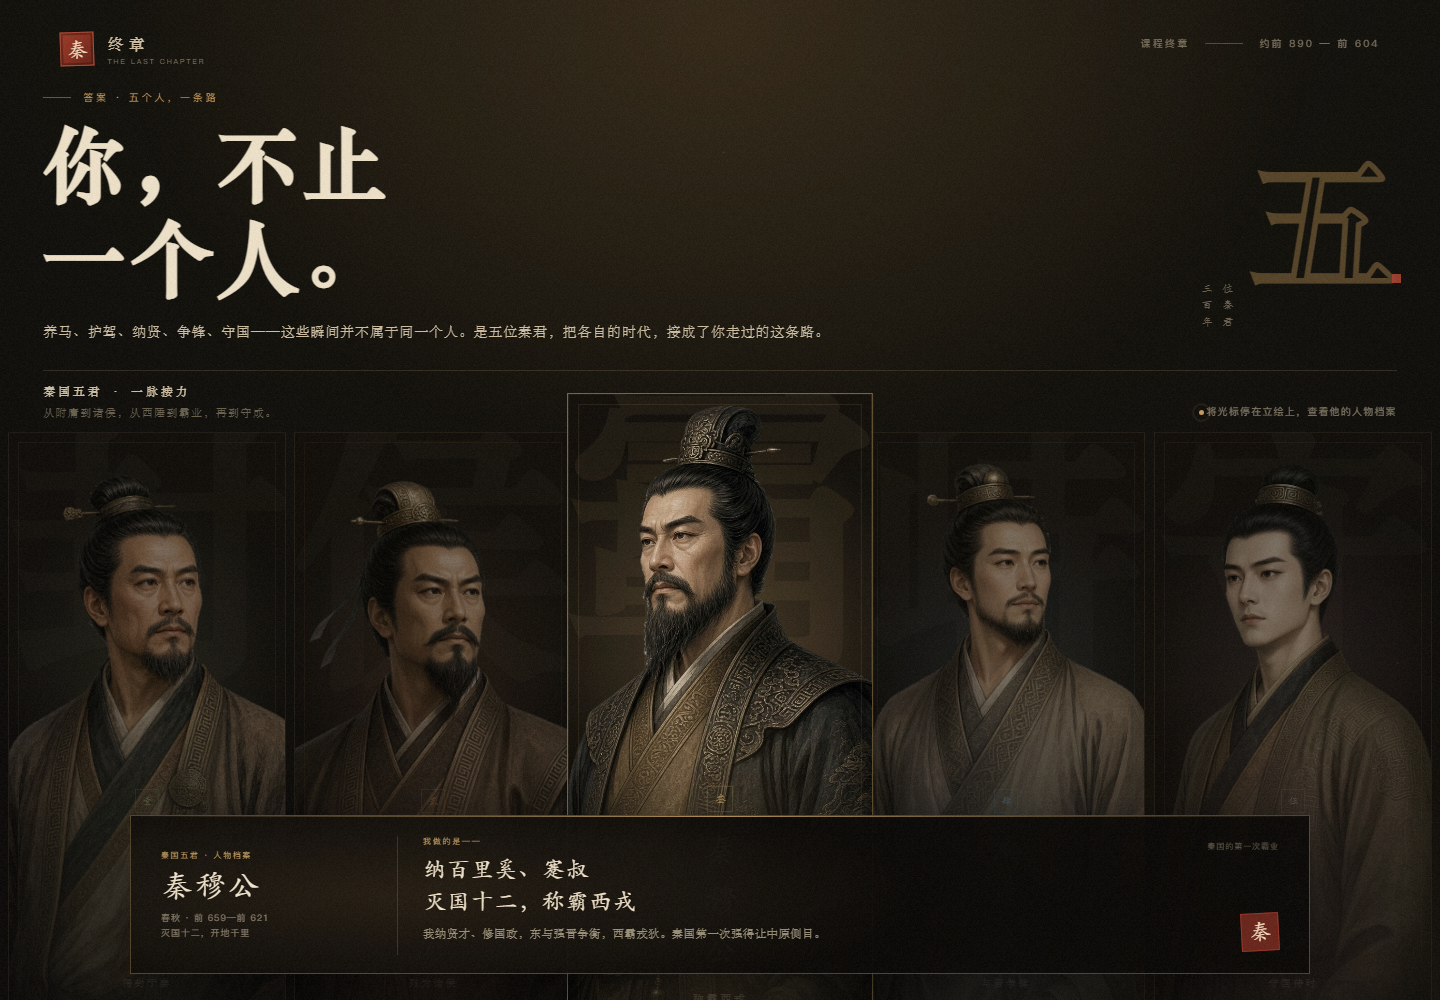
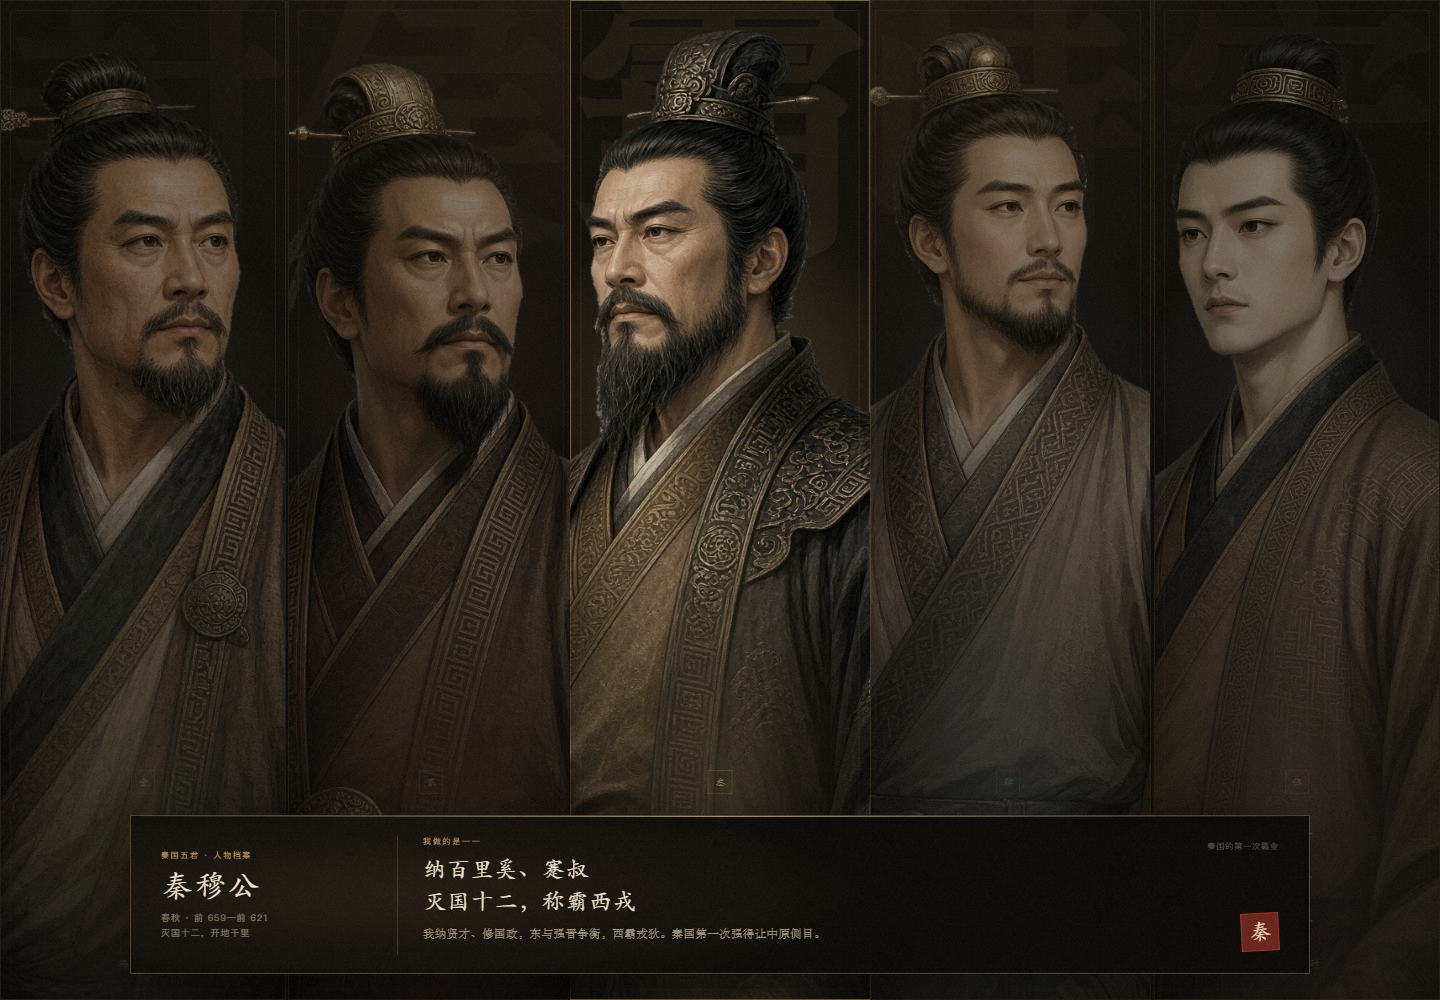
feat: reduce ending to five fullscreen rulers

diff --git a/index.html b/index.html
@@ -59,70 +59,14 @@
   </section>
 
   <main class="reveal" id="reveal" aria-labelledby="thesis-title" aria-hidden="true">
-    <section class="thesis">
-      <div class="thesis-copy">
-        <p class="eyebrow"><span class="eyebrow-line" aria-hidden="true"></span>答案 · 五个人，一条路</p>
-        <h1 class="thesis-title" id="thesis-title" tabindex="-1">
-          <span class="title-line"><span>你，不止</span></span>
-          <span class="title-line"><span>一个人。</span></span>
-        </h1>
-        <p class="lede">养马、护驾、纳贤、争锋、守国——这些瞬间并不属于同一个人。是五位秦君，把各自的时代，接成了你走过的这条路。</p>
-      </div>
-      <div class="thesis-mark" aria-hidden="true">
-        <span class="mark-number">五</span>
-        <span class="mark-caption">位秦君<br />三百年</span>
-      </div>
-    </section>
+    <h1 class="sr-only" id="thesis-title" tabindex="-1">你，不止一个人</h1>
 
-    <section class="gallery-section" aria-labelledby="gallery-title">
-      <div class="gallery-head">
-        <div>
-          <p class="section-label" id="gallery-title">秦国五君 · 一脉接力</p>
-          <p class="gallery-sub">从附庸到诸侯，从西陲到霸业，再到守成。</p>
-        </div>
-        <p class="gallery-hint">
-          <span class="hint-desktop"><span class="cursor-pulse" aria-hidden="true"></span>将光标停在立绘上，查看他的人物档案</span>
-          <span class="hint-touch"><span class="cursor-pulse" aria-hidden="true"></span>轻触立绘，查看他的功绩 · 可左右滑动</span>
-        </p>
-      </div>
-
+    <section class="gallery-section" aria-label="秦国五位君主">
       <div class="rail-wrap">
         <div class="rail" id="rail" role="group" aria-label="秦国五位君主立绘"></div>
         <div class="rail-edge rail-edge--left" aria-hidden="true"></div>
         <div class="rail-edge rail-edge--right" aria-hidden="true"></div>
       </div>
-
-      <div class="gallery-foot">
-        <p class="gallery-caption">不是五个人各自的故事，<br>是一个名字的五次呼吸。</p>
-        <div class="progress" aria-hidden="true">
-          <span class="progress-label" id="progress-label">已看 0 / 5 段自述</span>
-          <span class="ticks" id="ticks">
-            <span></span><span></span><span></span><span></span><span></span>
-          </span>
-        </div>
-      </div>
-    </section>
-
-    <section class="coda" id="coda" aria-labelledby="coda-title">
-      <div class="coda-rule" aria-hidden="true">
-        <span></span><i></i><span></span>
-      </div>
-      <p class="coda-kicker">五段自述 · 一条来路</p>
-      <h2 class="coda-title" id="coda-title">
-        你不是他们中的任何一个。<br />
-        你是他们合起来，才叫得出口的那个字——<span class="coda-qin">秦</span>。
-      </h2>
-      <p class="coda-body">非子给了它土地，襄公给了它名分，穆公给了它锋芒，康公与共公守住了它的火种。三百年，五次接力，才轮到你在这里，问出那一句“我是谁”。</p>
-
-      <div class="coda-foot">
-        <span class="seal" aria-hidden="true">秦</span>
-        <span class="coda-end">课程终章 · 完</span>
-      </div>
-
-      <details class="history-note">
-        <summary>史实注</summary>
-        <p>五人并非连续父子相继，而是秦国从附庸、诸侯、霸业到守成的五个关键节点。其中“秦共公”常被误写作“秦共工”，在位约为公元前 608—前 604 年，史料记载较少。</p>
-      </details>
     </section>
   </main>
 

diff --git a/app.js b/app.js
@@ -96,13 +96,12 @@
 
   const rail = document.getElementById("rail");
   const liveRegion = document.getElementById("live-region");
-  const ticks = [...document.querySelectorAll("#ticks span")];
-  const progressLabel = document.getElementById("progress-label");
+
   const body = document.body;
   const main = document.getElementById("reveal");
   const enterButton = document.getElementById("enter-button");
   const prologue = document.getElementById("prologue");
-  const coda = document.getElementById("coda");
+
   const hoverDetail = document.getElementById("hover-detail");
   const hoverName = document.getElementById("hover-detail-name");
   const hoverEra = document.getElementById("hover-detail-era");
@@ -209,24 +208,16 @@
      ------------------------------------------------------- */
 
   function updateProgress() {
-    const count = visited.size;
-    ticks.forEach((tick, index) => {
-      tick.classList.toggle("is-read", index < count);
-    });
+    if (visited.size < RULERS.length) return;
 
-    if (count >= RULERS.length) {
-      const wasComplete = body.classList.contains("all-visited");
-      progressLabel.textContent = "五段到齐 · 一脉相承";
-      body.classList.add("all-visited");
-      if (!wasComplete) {
-        window.dispatchEvent(
-          new CustomEvent("qin:ending:complete", {
-            detail: { visited: [...visited] }
-          })
-        );
-      }
-    } else {
-      progressLabel.textContent = `已看 ${count} / ${RULERS.length} 段自述`;
+    const wasComplete = body.classList.contains("all-visited");
+    body.classList.add("all-visited");
+    if (!wasComplete) {
+      window.dispatchEvent(
+        new CustomEvent("qin:ending:complete", {
+          detail: { visited: [...visited] }
+        })
+      );
     }
   }
 
@@ -380,8 +371,6 @@
     hoverDetail.classList.remove("is-visible");
     hoverDetail.setAttribute("aria-hidden", "true");
     if (hideDetailTimer) window.clearTimeout(hideDetailTimer);
-    ticks.forEach((tick) => tick.classList.remove("is-read"));
-    progressLabel.textContent = "已看 0 / 5 段自述";
     typingToken += 1;
     if (typingTimer) window.clearTimeout(typingTimer);
     document.querySelectorAll(".typed-caret").forEach((caret) => caret.remove());
@@ -444,26 +433,6 @@
       fragment.appendChild(mote);
     }
     holder.appendChild(fragment);
-  }
-
-  const codaObserver = "IntersectionObserver" in window
-    ? new IntersectionObserver(
-        (entries) => {
-          entries.forEach((entry) => {
-            if (entry.isIntersecting) {
-              entry.target.classList.add("in-view");
-              codaObserver.unobserve(entry.target);
-            }
-          });
-        },
-        { threshold: 0.18 }
-      )
-    : null;
-
-  if (codaObserver) {
-    codaObserver.observe(coda);
-  } else {
-    coda.classList.add("in-view");
   }
 
   makeDust();

diff --git a/styles.css b/styles.css
@@ -1925,6 +1925,81 @@ body.all-visited .coda.in-view .seal {
     display: none;
   }
 }
+/* Full-screen five-portrait ending */
+body.is-revealed {
+  overflow: hidden;
+}
+
+body.is-revealed .masthead {
+  display: none;
+}
+
+.reveal {
+  width: 100%;
+  max-width: none;
+  height: 100dvh;
+  margin: 0;
+  padding: 0;
+}
+
+.reveal .gallery-section {
+  display: flex;
+  height: 100%;
+  padding: 0;
+  border: 0;
+}
+
+.reveal .rail-wrap {
+  width: 100%;
+  height: 100%;
+  margin: 0;
+  padding: 0;
+}
+
+.reveal .rail {
+  height: 100dvh;
+  padding: 0;
+  gap: 2px;
+  justify-content: stretch;
+}
+
+.reveal .ruler {
+  height: 100%;
+}
+
+.reveal .figure {
+  height: 100%;
+  bottom: 0;
+}
+
+.reveal .ruler:hover {
+  transform: scaleX(1.05);
+}
+
+.reveal .ruler:focus-visible {
+  transform: scaleX(1.04);
+}
+
+.reveal .ruler:hover .figure {
+  transform: translateX(-50%);
+}
+
+.reveal .spine {
+  padding-bottom: 28px;
+}
+
+@media (max-height: 700px) {
+  .hover-detail {
+    bottom: 10px;
+    padding-top: 12px;
+    padding-bottom: 12px;
+  }
+
+  .hover-detail-body {
+    min-height: 0;
+  }
+}
+
 @media (prefers-reduced-motion: reduce) {
   html {
     scroll-behavior: auto;

diff --git a/README.md b/README.md
@@ -16,7 +16,7 @@
 | 四 | 秦康公 | 继穆公之业，与晋争锋 | `portrait-kang.webp` |
 | 五 | 秦共公 | 在位四年，守国待时 | `portrait-gong.webp` |
 
-第五位统一写作 **秦共公**，不写作“秦共工”。五人并非连续父子相继，页面以“五个关键节点 / 三百年五次接力”表述，页脚保留史实注。
+第五位统一写作 **秦共公**，不写作“秦共工”。五人并非连续父子相继，相关史实说明保留在本 README，页面本身已删除史实注。
 
 人物图按 `half-body-historical-portrait-1~5.jpg` 的顺序对应上表；如需调整人物与图片的对应关系，只需修改 `app.js` 中对应条目的 `image` 字段。
 
@@ -30,14 +30,13 @@
 - 桌面：将光标停在立绘上，卡片原位放大，底部升起人物档案带；移开 90ms 后收起。
 - 键盘：`Tab` 聚焦，`←` `→` 移动焦点，焦点卡自动显示档案；`Esc` 收起。
 - 触屏：轻触立绘显示档案，点其他卡切换，点空白收起。
-- 看完全部五段自述后，底部进度变成“五段到齐”，印章落下。
+- 页面只有五张人物卡，占满视口；没有标题、进度、收束页或史实注。
 
 预览图：
 
-- `preview/gallery.png`：五卡并排的初始状态
+- `preview/gallery.png`：五张人物占满全屏
 - `preview/desktop.png`：桌面端悬停秦穆公
 - `preview/mobile.png`：移动端轻触后的档案
-- `preview/coda.png`：五段看完后的收束页
 
 ---
 
@@ -46,12 +45,12 @@
 | 需求 | 实现 |
 | --- | --- |
 | 接在“我到底是谁呢”之后 | 独立页内置同一句内心 OS 作为序幕；支持由课程播放器调用 `QinEnding.reveal()` 精确接管时机 |
-| 揭示“不止一个人” | 标题写“你，不止一个人”；下方文案明确“这些瞬间不属于同一个人，是五位秦君” |
-| 五位君主立绘依次排开 | 秦非子 → 秦襄公 → 秦穆公 → 秦康公 → 秦共公，横向五栏，桌面等宽、移动横滑 |
-| 悬停谁，谁原位放大 | 五张卡宽度固定；悬停卡只做 `translateY + scale`，不改变相邻卡布局 |
+| 揭示“不止一个人” | 画面只保留五张全屏人物；标题退为屏幕阅读器文本，反转靠人物同屏与档案带完成 |
+| 五位君主立绘依次排开 | 秦非子 → 秦襄公 → 秦穆公 → 秦康公 → 秦共公，横向五栏铺满视口，移动端横滑 |
+| 悬停谁，谁原位放大 | 五张卡宽度固定；悬停卡只做 `scaleX(1.05)`，不改变相邻卡布局 |
 | 播放自己的功绩文字 | 底部人物档案带显示“我做的是——”，正文用逐字打字机播放；换人时重新播放 |
 | 文字内容可省略 | 每条只保留两行功绩短语 + 一句约 40 字自述，不堆史料 |
-| 课程结尾的收束感 | 五段看完后进度条走满、印章落下，收束句“你是他们合起来，才叫得出口的那个字——秦” |
+| 课程结尾的收束感 | 极简收尾：不显示进度、收束页、史实注，画面只留五个人 |
 
 ---
 
@@ -59,7 +58,7 @@
 
 ### 1. “秦共工”是笔误，应为“秦共公”
 
-页面采用 **秦共公**（约前 608—前 604 年在位），并在页脚“史实注”中说明这一点。若课程原有文案写的是“秦共工”，建议同步改为“秦共公”；“共工”在中文语境里首先指向神话人物，容易让学生出戏。
+页面采用 **秦共公**（约前 608—前 604 年在位），相关史实说明保留在本 README。若课程原有文案写的是“秦共工”，建议同步改为“秦共公”；“共工”在中文语境里首先指向神话人物，容易让学生出戏。
 
 ### 2. 五人并不是连续父子相继
 
@@ -120,24 +119,23 @@ document.querySelector('iframe').contentWindow.QinEnding.reveal();
 ## 四、交互与无障碍清单
 
 - 五张卡横向排列，顺序固定为时间顺序，初始不显示任何人物档案。
-- 悬停卡原位放大、上浮，其余卡降透明度；卡片宽度不变。
+- 五张卡铺满整个视口，卡片高度 100dvh，页面不滚动。
+- 悬停卡横向轻微放大，其余卡降透明度；卡片宽度不变。
 - 底部档案带显示姓名、时代、在位信息、“我做的是——”、功绩短语和自述。
 - 移开鼠标后档案带延迟 90ms 收起；直接移到下一张卡会切换，不会闪回。
 - 键盘 `Tab` 聚焦、方向键移动焦点，焦点卡自动显示档案。
 - 触屏轻触显示档案；点其他卡切换，点空白收起。
-- 进度显示“已看 X / 5 段自述”；每张卡首次显示才计数。
-- 五段全部看过后，出现“五段到齐 · 一脉相承”，印章落章动效。
 - 支持 `Tab`、`Shift+Tab`、方向键、`Home`、`End`。
-- `prefers-reduced-motion: reduce` 下禁用位移、逐字、漂浮尘埃和印章弹跳。
-- 页面无横向溢出；移动端横向滚动只发生在立绘轨道内部。
+- `prefers-reduced-motion: reduce` 下禁用位移、逐字和漂浮尘埃。
+- 页面无横向/纵向溢出；移动端横向滚动只发生在立绘轨道内部。
 - 移动端档案带压缩为底部抽屉，保留人物脸部可见。
-- 桌面端立绘轨道接近全宽、高度为 58vh；上方标题区压缩，人物在首屏中的占比更大。
+- 不再显示标题、进度、收束页或史实注；只有五个人和悬停档案。
 
 ### 性能处理
 
 首版悬停展开在部分机器上有卡顿，现已改成不触发宽度布局的悬停档案带：
 
-- 五张卡宽度固定，悬停只做 `translateY` / `scale`，不再动画 `flex-grow` / `width`。
+- 五张卡宽度固定，悬停只做 `scaleX`，不再动画 `flex-grow` / `width`。
 - 档案带使用固定尺寸 + `transform` / `opacity`，不改变页面布局。
 - 悬停卡放大时其余卡只变透明度，不移动位置。
 - 移除全屏 SVG `feTurbulence` 噪点滤镜，改为静态 PNG 纹理。
@@ -235,7 +233,7 @@ window.addEventListener('qin:ending:complete', (event) => {
 
 ```
 .
-├─ index.html          页面结构、文案、OS 序幕、收束页
+├─ index.html          页面结构、OS 序幕、五张全屏立绘
 ├─ styles.css          视觉、动效、响应式、降级动效
 ├─ app.js              五君数据、交互、API
 ├─ README.md           本文件
@@ -246,8 +244,7 @@ window.addEventListener('qin:ending:complete', (event) => {
 └─ preview/
    ├─ gallery.png      五卡并排的初始状态
    ├─ desktop.png      桌面端悬停人物档案
-   ├─ mobile.png       移动端人物档案
-   └─ coda.png         五段看完后的收束页
+   └─ mobile.png       移动端人物档案
 ```
 
 无第三方依赖、无构建步骤、无网络请求。
@@ -258,13 +255,14 @@ window.addEventListener('qin:ending:complete', (event) => {
 
 已在 Windows + Chrome 1440×1000、390×844 两种视口验证：
 
-- [x] 五个按钮全部渲染，顺序正确，初始五卡等宽，无 JavaScript 报错。
-- [x] 桌面悬停秦穆公：卡片原位放大至 306×638（布局宽仍 278），底部升起 1180×159 档案带。
-- [x] 移开鼠标后档案带收起，进度保持“已看 1 / 5 段自述”。
+- [x] 五个按钮全部渲染，顺序正确，无 JavaScript 报错。
+- [x] 桌面 1440×1000：五卡各 286×1000 铺满视口，页面无纵向/横向滚动。
+- [x] 桌面悬停秦穆公：卡片横向放大到 301×1000，冠顶不裁切，底部升起 1180×159 档案带。
+- [x] 移开鼠标后档案带收起，页面仍保持全屏五卡。
 - [x] 键盘聚焦后 `ArrowRight` 可从第 1 位移动焦点，焦点卡自动显示档案。
-- [x] 移动端轻触第 3 位：档案带为 390×201 底部抽屉，卡片脸部仍可见，无横向页面溢出。
+- [x] 移动端 390×844：档案带为 390×201 底部抽屉，卡片脸部仍可见，页面无溢出。
 - [x] `Esc`、点空白处均可收起档案带。
-- [x] `prefers-reduced-motion` 下卡片、标题、自述均直接可见。
+- [x] `prefers-reduced-motion` 下卡片、自述均直接可见。
 - [x] `?manual=1` 等待 6.2 秒后仍停在 OS 幕，按钮可用。
 - [x] 悬停放大与档案带不再触发 `flex-grow` / 宽度布局动画；移动端隐藏尘埃粒子。
 - [x] 仅请求本地 `styles.css`、`app.js`、`assets/grain.png` 与五张 `portrait-*.webp`，断网可运行。
@@ -276,4 +274,4 @@ window.addEventListener('qin:ending:complete', (event) => {
 1. 若课程有统一立绘，直接替换 `assets/portrait-*.webp` 并保留 `.figure` 容器即可。
 2. 若需要旁白，给每位君主加 2—3 秒音频，首次用户交互后再解锁播放。
 3. 若需要埋点，监听 `qin:ending:ruler` 与 `qin:ending:complete` 即可。
-4. 若课程结尾还有“继续下一课”按钮，可放在收束页印章下方；当前页面刻意不放假 CTA。
+4. 极简版刻意没有“继续下一课”按钮和结束文案；若课程需要 CTA，可单独加在档案带或页面角落，不要重新引入整段收束页。
